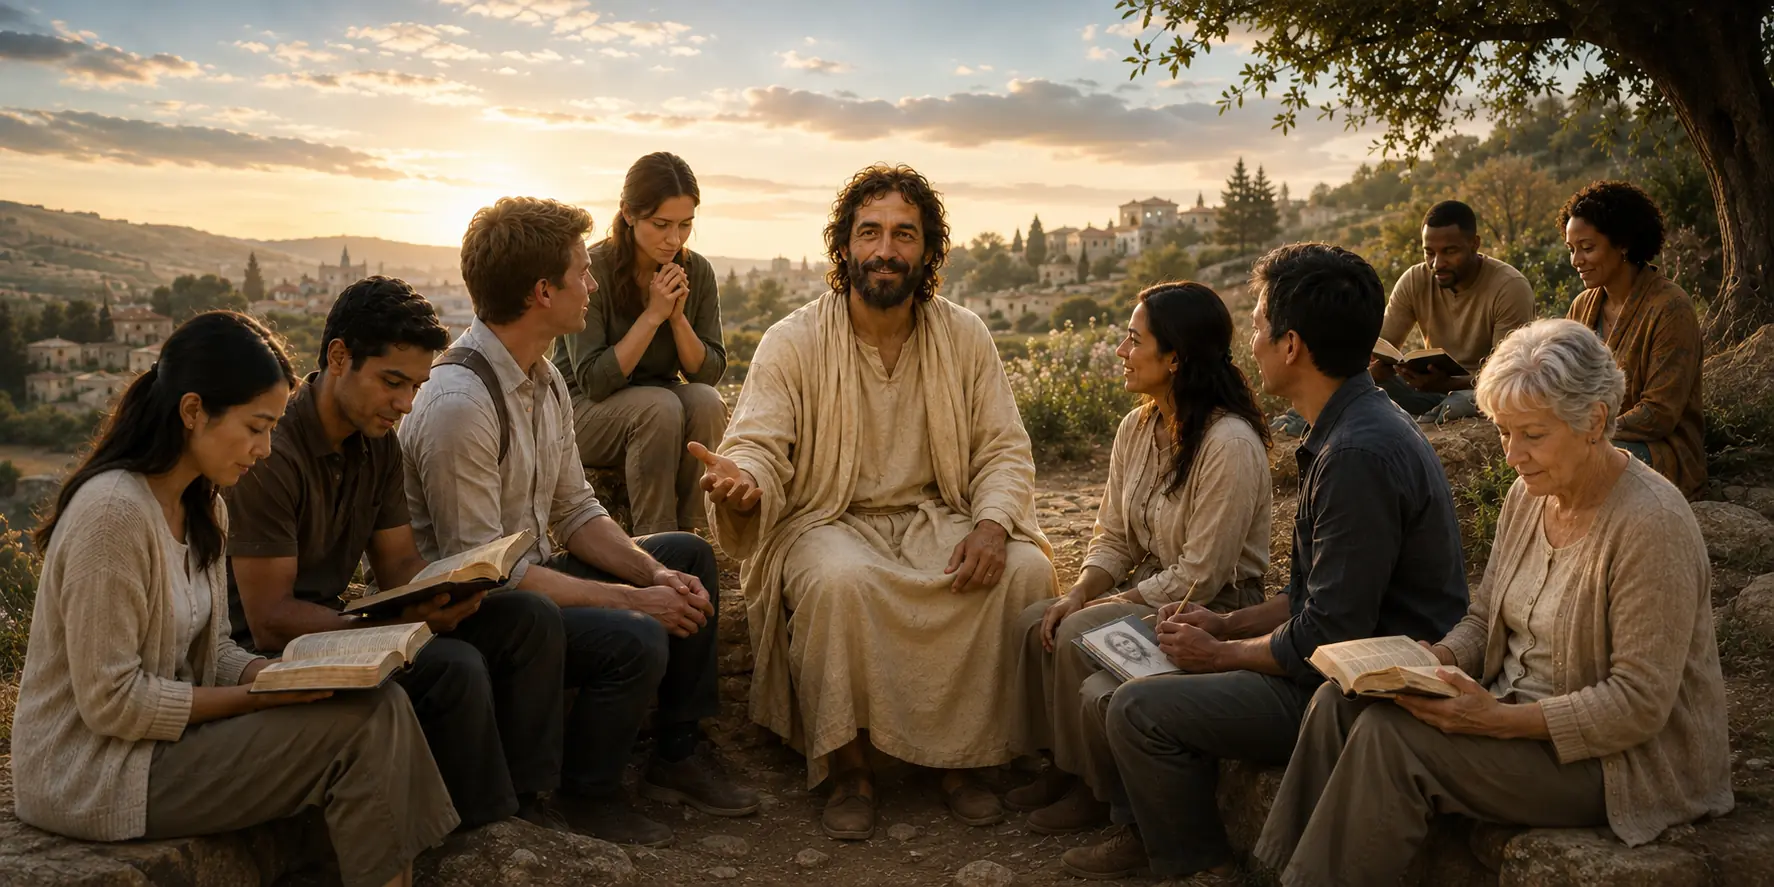
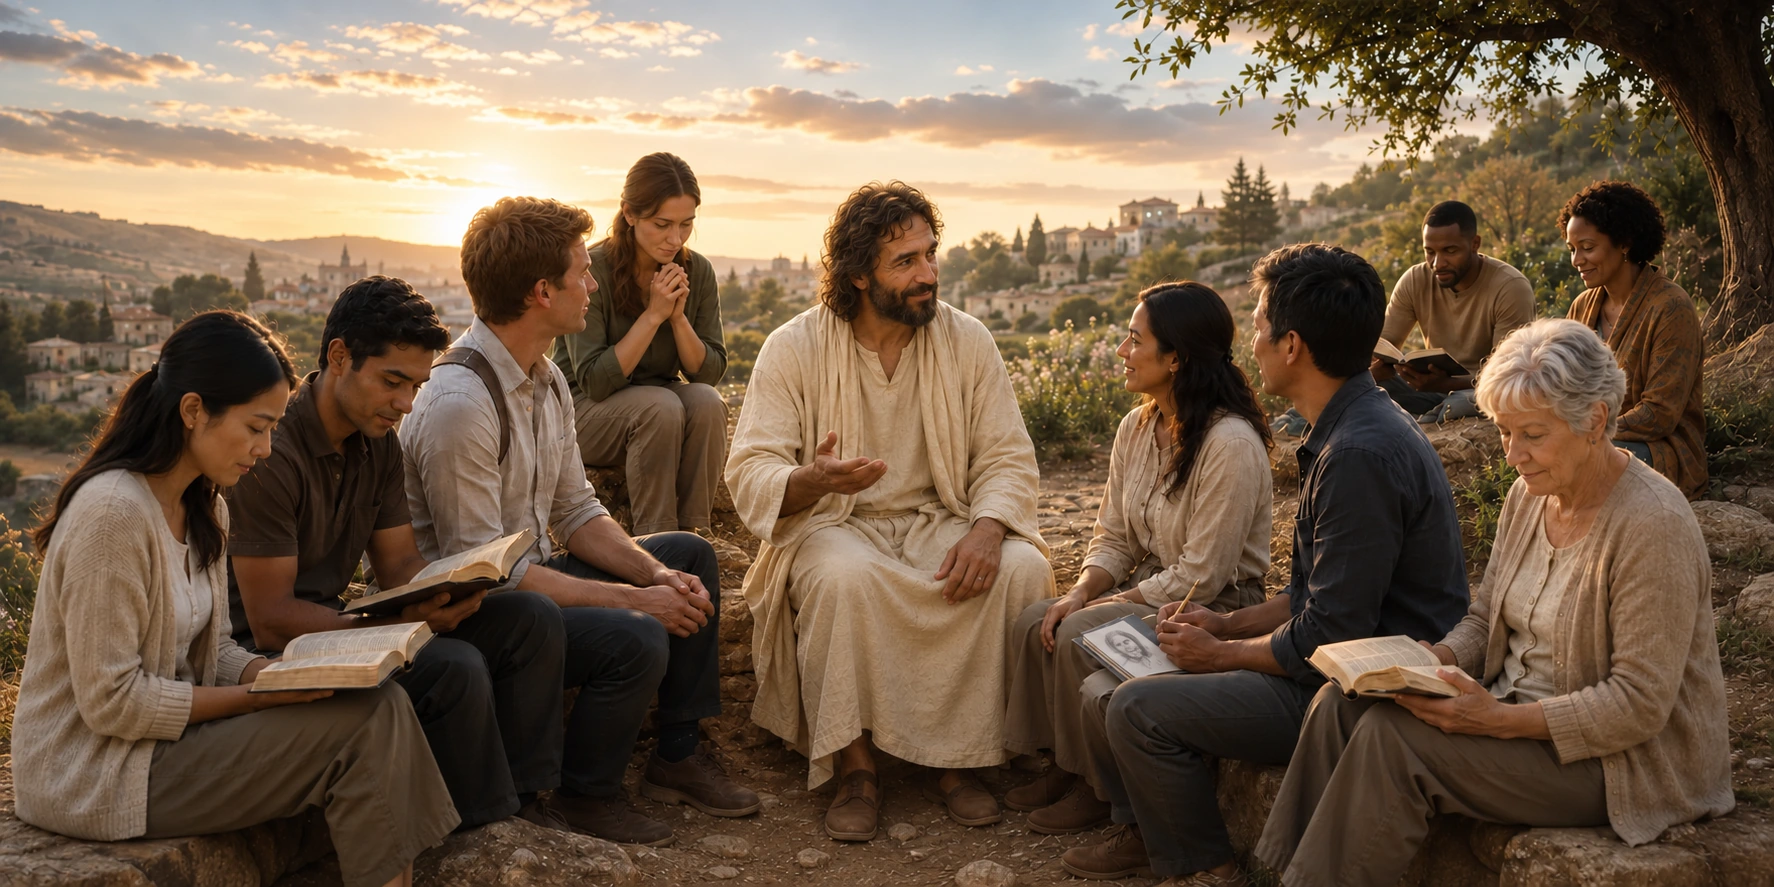
Publish approved Home study artwork (#136)

diff --git a/index.html b/index.html
@@ -93,8 +93,8 @@
                     </div>
 
                     <figure class="fc-content-artwork fc-home-purpose-art">
-                        <a class="fc-art-link" href="assets/page-art/home-seek-study-remember.webp" target="_blank" rel="noopener noreferrer" data-artwork-detail="home-seek-study" aria-haspopup="dialog" aria-label="Learn about Seek, Study, and Remember Jesus Christ">
-                        <img src="assets/page-art/home-seek-study-remember.webp" alt="Jesus Christ welcoming a diverse group gathered in scripture study, prayer, conversation, and sacred art" width="1774" height="887" loading="lazy" decoding="async">
+                        <a class="fc-art-link" href="assets/page-art/home-seek-study-remember.webp?v=20260905-study-review" target="_blank" rel="noopener noreferrer" data-artwork-detail="home-seek-study" aria-haspopup="dialog" aria-label="Learn about Seek, Study, and Remember Jesus Christ">
+                        <img src="assets/page-art/home-seek-study-remember.webp?v=20260905-study-review" alt="Jesus Christ welcoming a diverse group gathered in scripture study, prayer, conversation, and sacred art" width="1774" height="887" loading="lazy" decoding="async">
                         </a>
                         <figcaption>Seek, study, and remember Jesus Christ.</figcaption>
                     </figure>
@@ -177,7 +177,7 @@
     </dialog>
 
     <section hidden aria-hidden="true">
-        <article data-artwork-detail-content="home-seek-study" data-detail-image="assets/page-art/home-seek-study-remember.webp" data-detail-full="assets/page-art/home-seek-study-remember.webp" data-detail-image-alt="Symbolic artwork of Jesus Christ welcoming people gathered in study and prayer" data-detail-source="https://www.churchofjesuschrist.org/study/manual/gospel-topics/jesus-christ-study-guide?lang=eng" data-detail-source-label="Study Jesus Christ">
+        <article data-artwork-detail-content="home-seek-study" data-detail-image="assets/page-art/home-seek-study-remember.webp?v=20260905-study-review" data-detail-full="assets/page-art/home-seek-study-remember.webp?v=20260905-study-review" data-detail-image-alt="Symbolic artwork of Jesus Christ welcoming people gathered in study and prayer" data-detail-source="https://www.churchofjesuschrist.org/study/manual/gospel-topics/jesus-christ-study-guide?lang=eng" data-detail-source-label="Study Jesus Christ">
             <span data-detail-eyebrow>The purpose of focusChrist</span>
             <span data-detail-title>Seek, Study, and Remember Jesus Christ</span>
             <p data-detail-paragraph>This gathering places scripture study, prayer, conversation, and sacred art around Jesus Christ. It reflects the purpose of focusChrist: helping sincere seekers learn of Him and continue into trustworthy study.</p>

diff --git a/tools/unified_experience_qa.py b/tools/unified_experience_qa.py
@@ -177,7 +177,7 @@ def main() -> int:
 
     home = (ROOT / "index.html").read_text(encoding="utf-8")
     home_art = "assets/page-art/home-seek-study-remember.webp"
-    if f'src="{home_art}"' not in home or 'class="fc-content-artwork fc-home-purpose-art"' not in home:
+    if not re.search(r'src="' + re.escape(home_art) + r'(?:\?[^"\s]*)?"', home) or 'class="fc-content-artwork fc-home-purpose-art"' not in home:
         fail(errors, "index.html: approved supporting artwork missing or not wired")
     for marker in ('href="home.css?v=20260905-1"', 'class="fc-home-purpose-split"', 'class="fc-home-purpose-copy"'):
         if marker not in home:
@@ -185,7 +185,7 @@ def main() -> int:
     home_art_path = ROOT / home_art
     if not home_art_path.exists() or home_art_path.stat().st_size == 0:
         fail(errors, f"index.html: supporting artwork asset missing or empty: {home_art}")
-    if f'class="fc-art-link" href="{home_art}"' not in home:
+    if not re.search(r'class="fc-art-link" href="' + re.escape(home_art) + r'(?:\?[^"\s]*)?"', home):
         fail(errors, "index.html: Home supporting artwork must open its full-resolution source")
     home_new_art = (
         "assets/page-art/home-come-and-see-900.webp",

diff --git a/docs/home-study-approved-release.md b/docs/home-study-approved-release.md
@@ -1,0 +1,5 @@
+# Approved Home study artwork
+
+Wyatt approved the revised Seek, Study, and Remember Jesus Christ image. Source: exec-94811e97-9a82-4d23-9ae1-6067d5dbc53f.png; source SHA-256:71c0fffea5d2e84e6a2f92bd7574d344dbaf2eb0507d839d7140b38d20ef388c; dimensions1774x887. Christ engages with the woman beside Him. Existing Home placement, hero, caption and detail/full-size behavior are preserved.
+
+Publication workflow: prepare exact web asset, cache references, local checks, and independent review before requesting image approval. After approval, reuse prepared artifacts, use the connected GitHub API directly, run required CI, merge, verify deployment and exact live asset delivery. Do not retry unauthenticated CLI writes or repeat completed setup. Refresh main only to detect relevant concurrent changes. Never publish a rejected or unapproved candidate.
